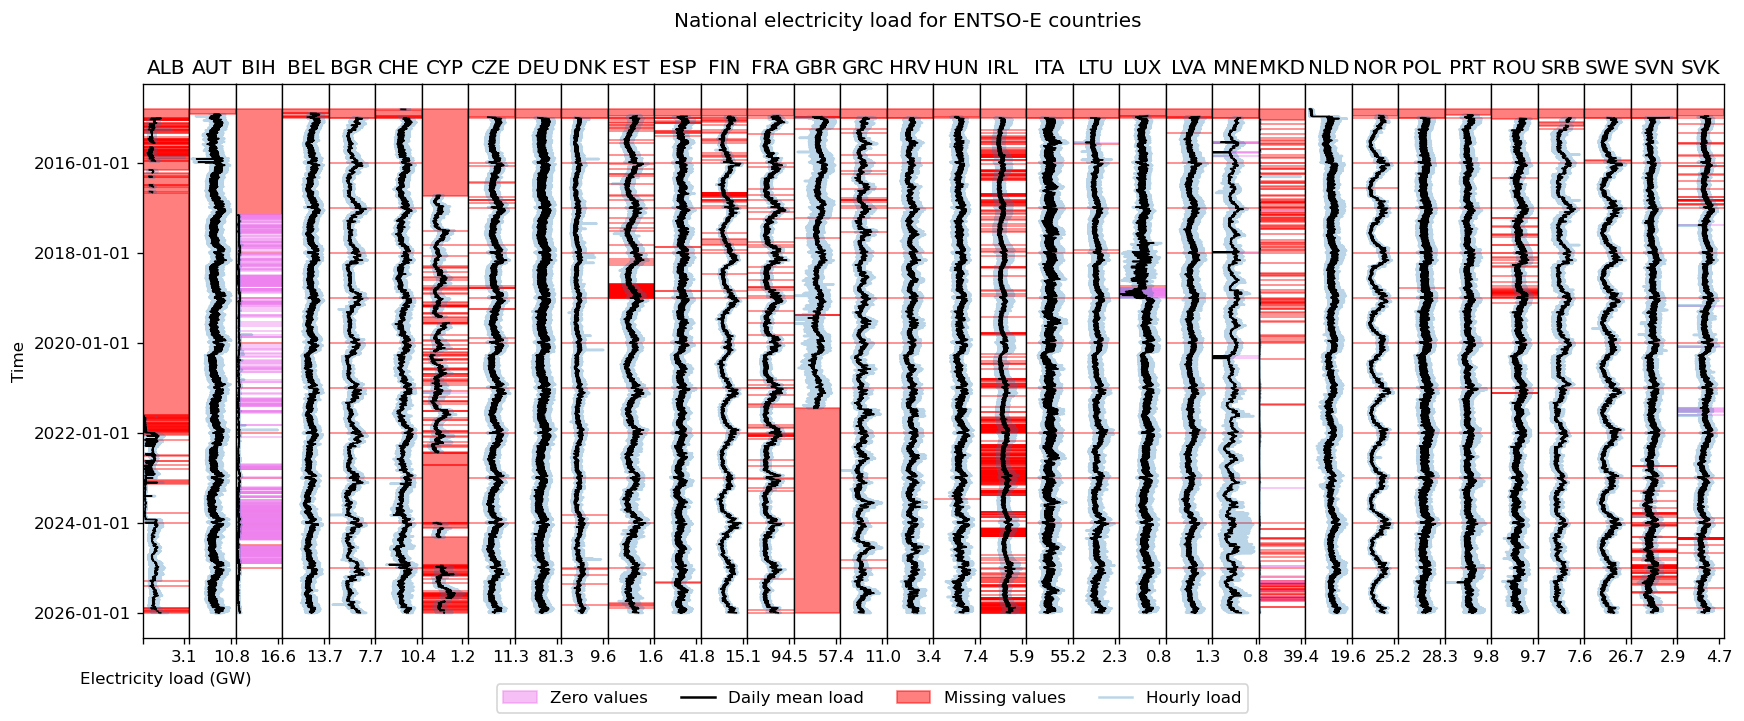
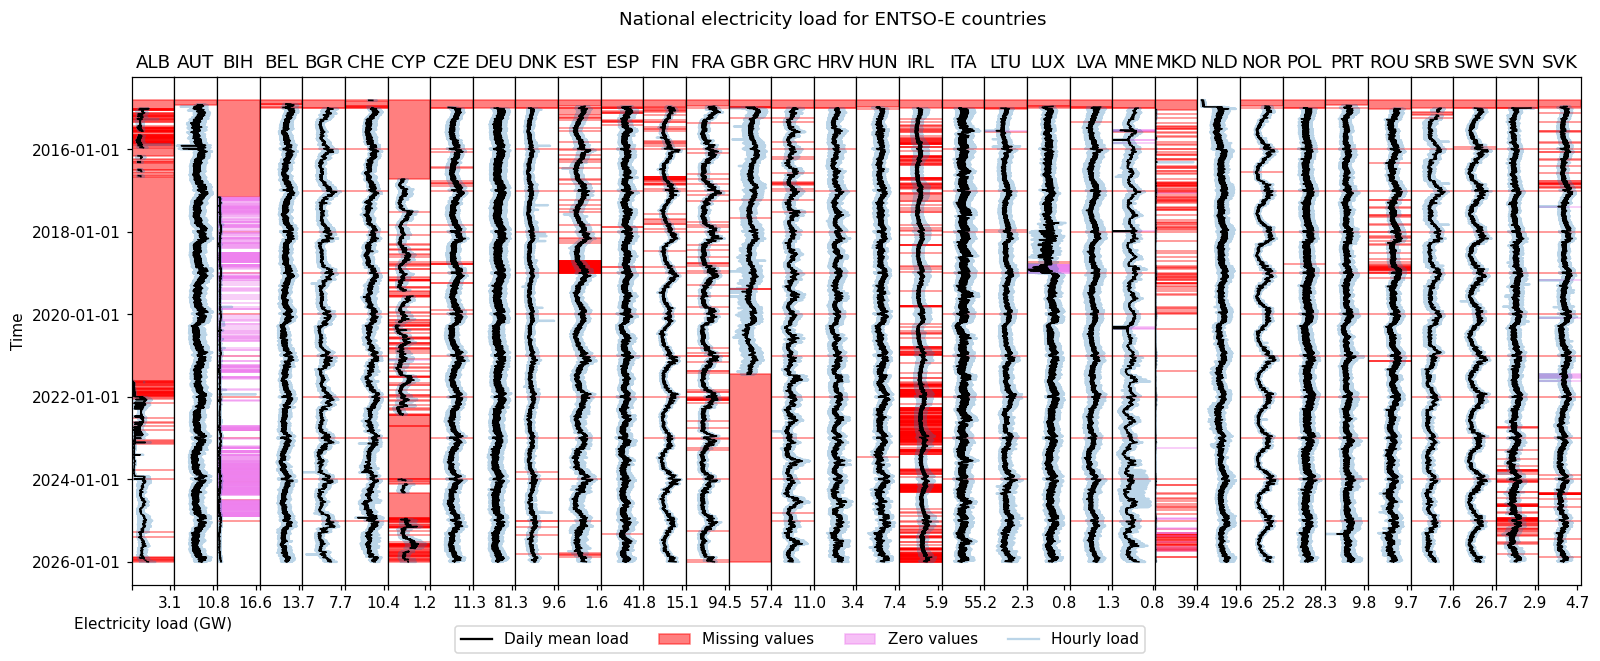
Reduce dpi

Changed region(s): [[0.0, 0.0, 1.0, 0.9985], [0.9688, 0.5749, 1.0, 0.6051], [0.9688, 0.3933, 1.0, 0.4236]]

diff --git a/workflow/scripts/demand_electricity_raster.py b/workflow/scripts/demand_electricity_raster.py
@@ -85,7 +85,7 @@ def main(
     plt.savefig(plot_raster, bbox_inches="tight")
 
     plot_national_profiles(demand)
-    plt.savefig(plot_profiles, bbox_inches="tight", dpi=120)
+    plt.savefig(plot_profiles, bbox_inches="tight", dpi=110)
 
 
 if __name__ == "__main__":